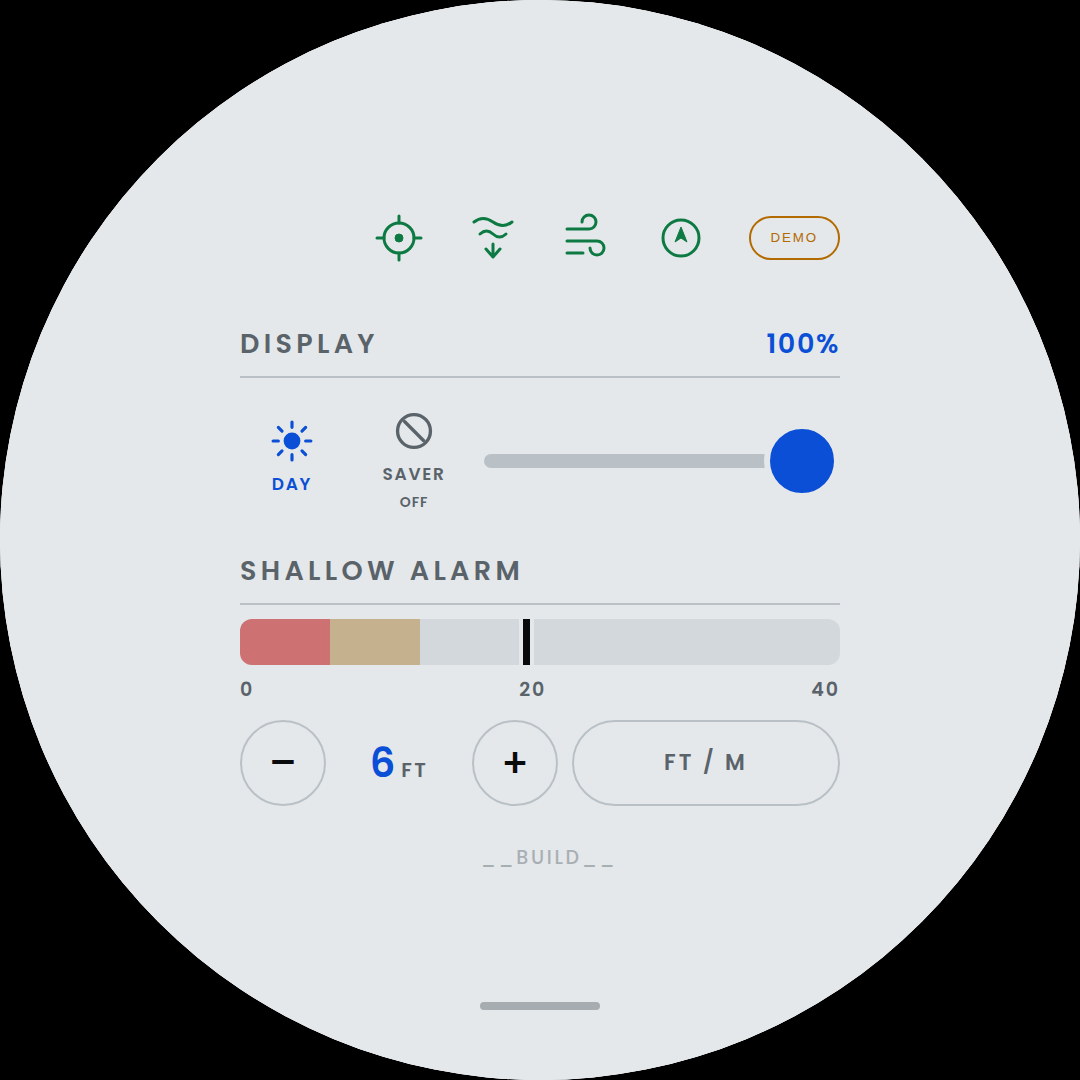
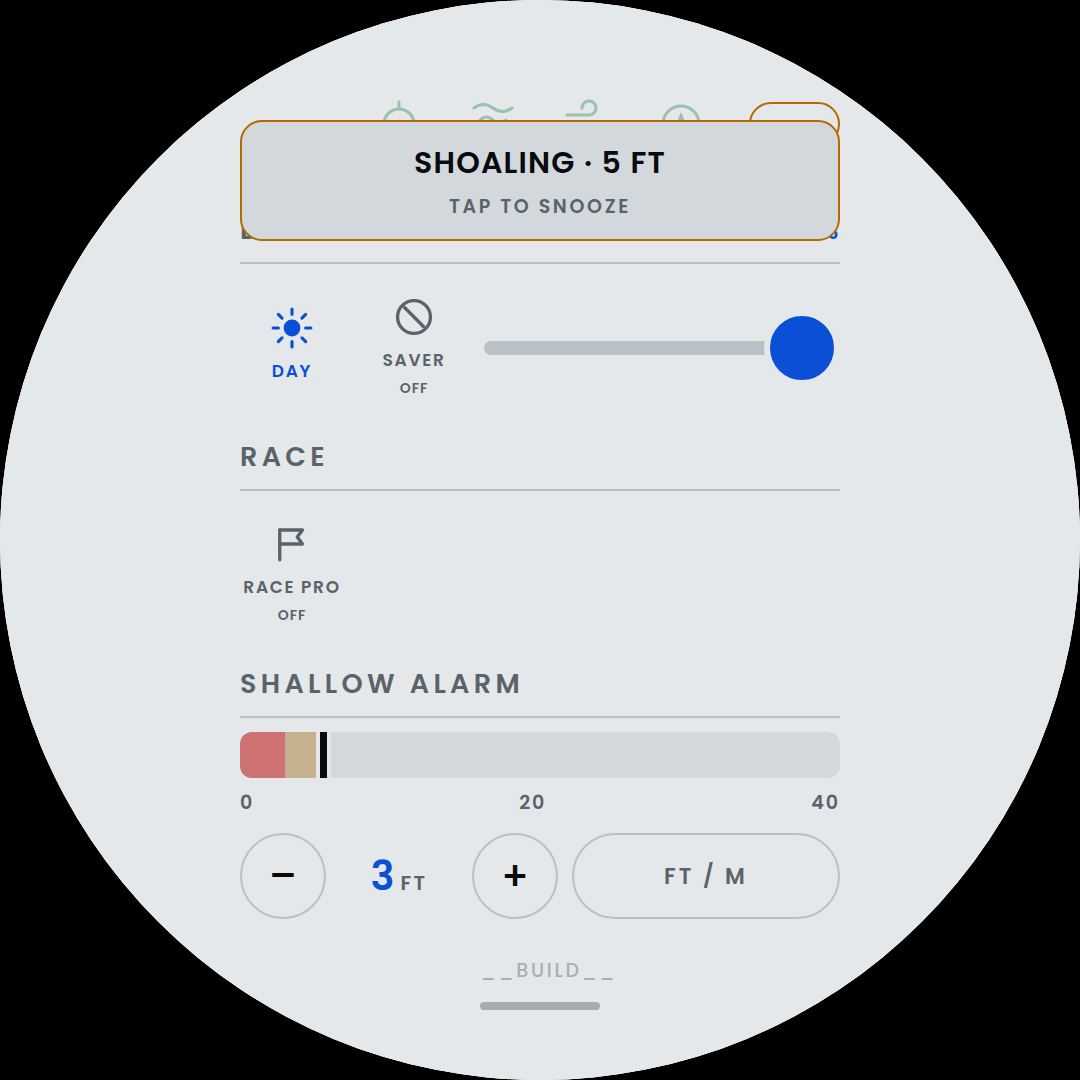
Control panel: a RACE PRO tile, and the persisted tiles painted after the prefs load
racePro gated the start-line pings, the target speed, the LIFT/HEADER
strip and TO LINE / BIAS / BURN - and had no switch. It was a source
constant, false, so on the boat none of that ever showed, which is why
PIN and BOAT were nowhere to be seen. It is a tile now, in its own Race
slab on the control panel, saved with the other prefs, with the display
tiles' 24 px tap-or-swipe rule so a swipe-down that starts on it still
closes the panel.

Placing its paint turned up an older fault. prefsLoad runs late in the
file, and the DEMO pill was painted at its own definition three thousand
lines earlier - before the saved value had been read. A panel with the
demo saved off came up with the pill lit until the next toggle; RACE PRO
would have done the same. Both are painted once, right after prefsLoad,
and nowhere else.

Tested: off by default with no TGT; a tap turns it on and saves; a 120
px drag off it is not a tap; on, TGT shows and PIN and BOAT appear
during a countdown; it comes back on after a reload; the demo pill
saved off comes up off; a tap turns it off and saves.

Claude-Session: https://claude.ai/code/session_01BmvizJiQLmvpEFfAxzaKX2

diff --git a/confluence_helm.html b/confluence_helm.html
@@ -416,7 +416,7 @@ text{font-variant-numeric:tabular-nums;dominant-baseline:middle}
 .tile .sub{font-size:14px;font-weight:600;letter-spacing:.06em;
   color:var(--accent);margin-top:-4px}
 .tile.off .sub{color:var(--label)}
-#ss-ico{fill:none;stroke:currentColor;stroke-width:1.9;
+#ss-ico,#race-ico{fill:none;stroke:currentColor;stroke-width:1.9;
   stroke-linecap:round;stroke-linejoin:round}
 #ss-ico text{fill:currentColor;stroke:none;font-family:var(--font)}
 .tile.on{color:var(--accent)}
@@ -1561,6 +1561,19 @@ document.body.className = THEME_EFF==='day' ? '' : THEME_EFF;
       <input id="dim" type="range" min="25" max="100" value="100">
     </div>
 
+    <!-- The race set: start-line pings during the countdown, target
+         speed, the lift/header strip, TO LINE / BIAS / BURN. One tile,
+         because it is one decision - are we racing today. -->
+    <div class="slab">Race</div>
+    <div class="dimrow">
+      <button class="tile" id="race-btn">
+        <svg id="race-ico" viewBox="0 0 24 24">
+          <path d="M5 21V4"/><path d="M5 4h13l-3 4 3 4H5"/></svg>
+        <span>RACE PRO</span>
+        <span class="sub" id="race-sub">OFF</span>
+      </button>
+    </div>
+
     <div class="slab">Shallow alarm</div>
     <div class="depthwrap">
       <div class="bar">
@@ -1838,8 +1851,9 @@ const CFG={
 
   /* ---- feature switches -------------------------------------------
      racePro turns on the start-line pings, polar target % and the
-     lift/header readout. All the code stays in the file, it just is
-     not drawn or evaluated. Flip to true when you want it back.
+     lift/header readout. Off here is only the default: the RACE PRO
+     tile on the control panel sets it and it is saved with the other
+     prefs.
      showHeel needs the BNO080 heading node to be publishing
      navigation.attitude.                                            */
   racePro:false,
@@ -3544,7 +3558,11 @@ const PREF_DEFS={
      source-code default with no panel control at all: the only way off
      was to edit the file, and until someone did, the shallow alarm was
      firing on invented depth. */
-  windDemo:   v=>typeof v==='boolean' ? v : null
+  windDemo:   v=>typeof v==='boolean' ? v : null,
+  /* The race set is a panel tile now. It used to be a source constant,
+     which meant the pings, the target and the shift strip could only be
+     had by editing the file - so on the boat they never were. */
+  racePro:    v=>typeof v==='boolean' ? v : null
 };
 function prefsLoad(){
   let raw={};
@@ -5044,7 +5062,6 @@ function windDemoTick(){
    constant; at 8 Hz the bezel moves the way the boat did. */
 setInterval(windDemoTick, 120);
 $('demo-btn').addEventListener('click',()=>demoSet(!CFG.windDemo));
-drawDemo();
 
 /* ---- the sensor readout on the music page --------------------------
    It was one thin row of 32px numbers above the album art, which is
@@ -8907,6 +8924,23 @@ fitStage();
    open, so letting the events through costs nothing underneath. */
 let ssHold=null, ssPt=null;
 const ssFar=e=>!ssPt||Math.hypot(e.clientX-ssPt.x,e.clientY-ssPt.y)>24;
+/* RACE PRO. A tap toggles; the same 24 px tap-or-swipe rule as the
+   display tiles, so a swipe-down that starts on it still closes the
+   panel rather than being swallowed. */
+function drawRace(){
+  const on=!!CFG.racePro;
+  wCls('race-btn','on',on); wCls('race-btn','off',!on);
+  wText('race-sub', on?'ON':'OFF');
+}
+let racePt=null;
+$('race-btn').addEventListener('pointerdown',e=>{ racePt={x:e.clientX,y:e.clientY}; });
+$('race-btn').addEventListener('pointerup',e=>{
+  if(!racePt) return; const far=Math.hypot(e.clientX-racePt.x,e.clientY-racePt.y)>24; racePt=null;
+  if(far) return;
+  CFG.racePro=!CFG.racePro; drawRace(); prefsSave();
+  dialCellKey='';                        /* the strip's unit comes and goes with it */
+});
+
 $('ss-btn').addEventListener('pointerdown',e=>{
   ssPt={x:e.clientX,y:e.clientY};
   ssHold=setTimeout(()=>{ ssHold=null;               /* held: start now */
@@ -8937,6 +8971,12 @@ drawBezelTicks();
 /* Preferences first: applyTheme, drawDepth and applyDim below all read
    CFG, so restoring it has to happen before any of them run. */
 prefsLoad(); applyDim(CFG.dim,false); layoutPages();
+/* The two persisted tiles are painted HERE, after prefsLoad, and nowhere
+   earlier. DEMO used to be painted at its own definition, three thousand
+   lines above this, which is before the saved value has been read - so a
+   panel with the demo saved off came up with the pill lit until the next
+   toggle. RACE PRO would have done the same. */
+drawDemo(); drawRace();
 /* Warm the radio state at boot rather than on first panel open. The call
    costs a handful of subprocesses on the Pi, and doing it here means it
    has long finished by the time anyone swipes up - instead of the panel
